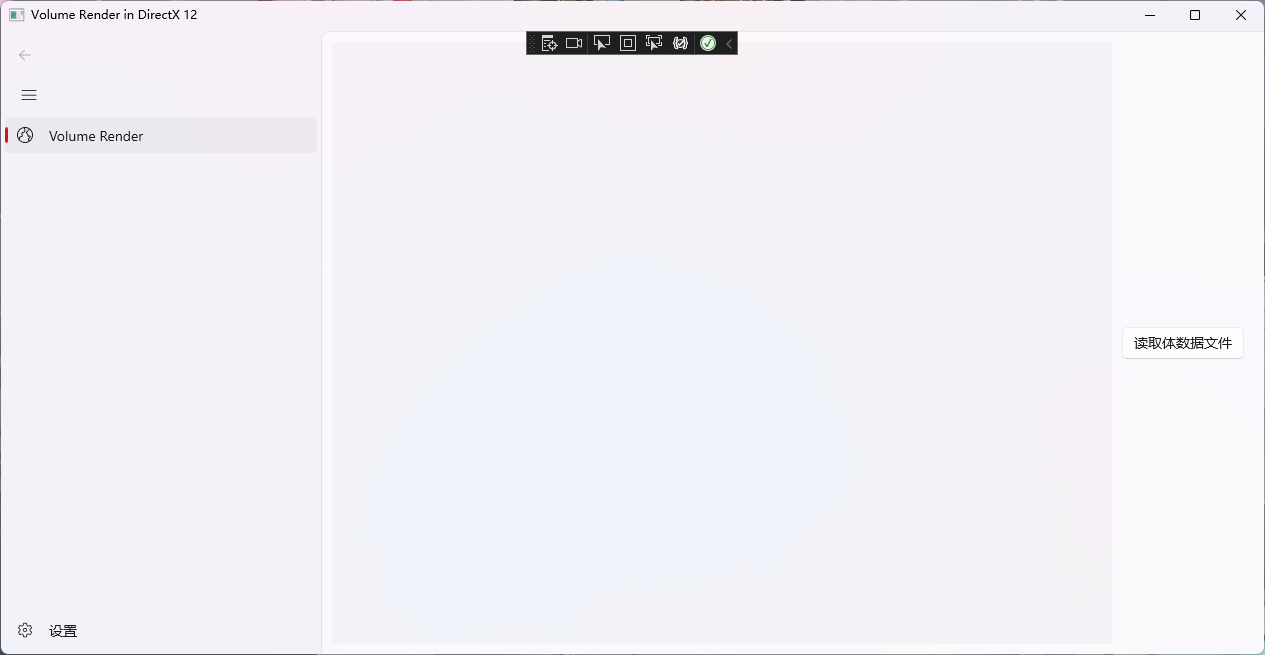
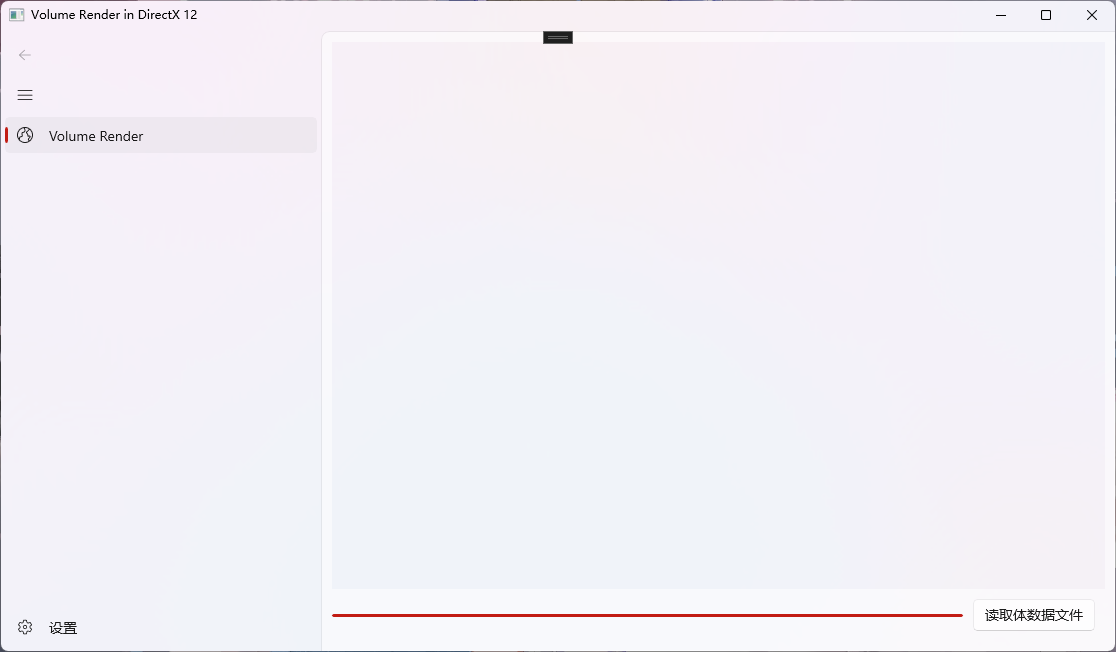
Include Eigen 3.4 and enable read from external file.

diff --git a/Dx12VolumeRender/VolumeData.hpp b/Dx12VolumeRender/VolumeData.hpp
@@ -1,0 +1,50 @@
+#pragma once
+
+#include <Eigen/Core>
+
+template<typename dataType>
+class UltrasoundFrame {
+private:
+    int width;
+    int height;
+    int channels;
+    double widthPerPixel;
+    double heightPerPixel;
+    Eigen::Matrix<unsigned char, Eigen::Dynamic, Eigen::Dynamic, Eigen::Dynamic> originalImage;
+    Eigen::Matrix<dataType, Eigen::Dynamic, Eigen::Dynamic, Eigen::Dynamic> image;
+    Eigen::Matrix<dataType, Eigen::Dynamic, Eigen::Dynamic, 3> pixelCoordinates;
+public:
+    UltrasoundFrame(unsigned char const& originalImageData, int width, int height, int channels, double widthPerPixel, double heightPerPixel) : width(width), height(height), channels(channels), widthPerPixel(widthPerPixel), heightPerPixel(heightPerPixel) {
+        Eigen::Map<Eigen::Matrix<double, width, height, channels>>originalImage(originalImageData);
+        image = originalImage.cast<dataType>();
+    }
+
+    void loadCoordinates(dataType const& coordinatesData) {
+        Eigen::Map<Eigen::Matrix<double, width, height, 3>>pixelCoordinates(coordinatesData);
+    }
+};
+
+class VolumeData {
+public:
+    int frameCount;
+    int channels;
+    int frameWidth;
+    int frameHeight;
+    double widthPerPixel;
+    double heightPerPixel;
+    Eigen::Matrix4d matItoF;
+    std::vector<UltrasoundFrame<double>> frames;
+
+    template<typename T>
+    void readFromBytes(uint8_t** fileBytePointer, T& dataItem) {
+        std::memcpy(&dataItem, *fileBytePointer, sizeof(T));
+        *fileBytePointer += sizeof(int);
+    }
+
+    void readMatrix4dFromBytes(uint8_t** fileBytePointer, Eigen::Matrix4d& mat4d) {
+        double matData[16];
+        std::memcpy(matData, *fileBytePointer, sizeof(double) * 16);
+        new (&mat4d)Eigen::Map<Eigen::Matrix4d>(matData);
+        *fileBytePointer += sizeof(double) * 16;
+    }
+};

diff --git a/Dx12VolumeRender/VolumeRenderPage.xaml.cpp b/Dx12VolumeRender/VolumeRenderPage.xaml.cpp
@@ -6,6 +6,8 @@
 
 #include "App.xaml.h"
 
+#include "VolumeData.hpp"
+
 using namespace winrt;
 using namespace Microsoft::UI::Xaml;
 
@@ -36,7 +38,14 @@ Windows::Foundation::IAsyncAction winrt::Dx12VolumeRender::implementation::Volum
     if (selectedFile != nullptr) {
         auto fileBuffer = co_await Windows::Storage::FileIO::ReadBufferAsync(selectedFile);
         auto fileBytes = fileBuffer.data();
-        int frameCounts;
-        std::memcpy(&frameCounts, fileBytes, sizeof(int));
+        VolumeData volumeData;
+        volumeData.readFromBytes<int>(&fileBytes, volumeData.frameCount);
+        volumeData.readFromBytes<int>(&fileBytes, volumeData.channels);
+        volumeData.readFromBytes<int>(&fileBytes, volumeData.frameWidth);
+        volumeData.readFromBytes<int>(&fileBytes, volumeData.frameHeight);
+        volumeData.readFromBytes<double>(&fileBytes, volumeData.widthPerPixel);
+        volumeData.readFromBytes<double>(&fileBytes, volumeData.heightPerPixel);
+        volumeData.readMatrix4dFromBytes(&fileBytes, volumeData.matItoF);
+        
     }
 }

diff --git a/Dx12VolumeRender/VolumeRenderPage.xaml.h b/Dx12VolumeRender/VolumeRenderPage.xaml.h
@@ -13,6 +13,8 @@ namespace winrt::Dx12VolumeRender::implementation {
 
         Windows::Storage::StorageFile selectedFile{ nullptr };
 
+        int frameCounts = -1;
+
     public:
         VolumeRenderPage();
         void OnPageLoaded(winrt::Windows::Foundation::IInspectable const& sender, winrt::Microsoft::UI::Xaml::RoutedEventArgs const& e);
